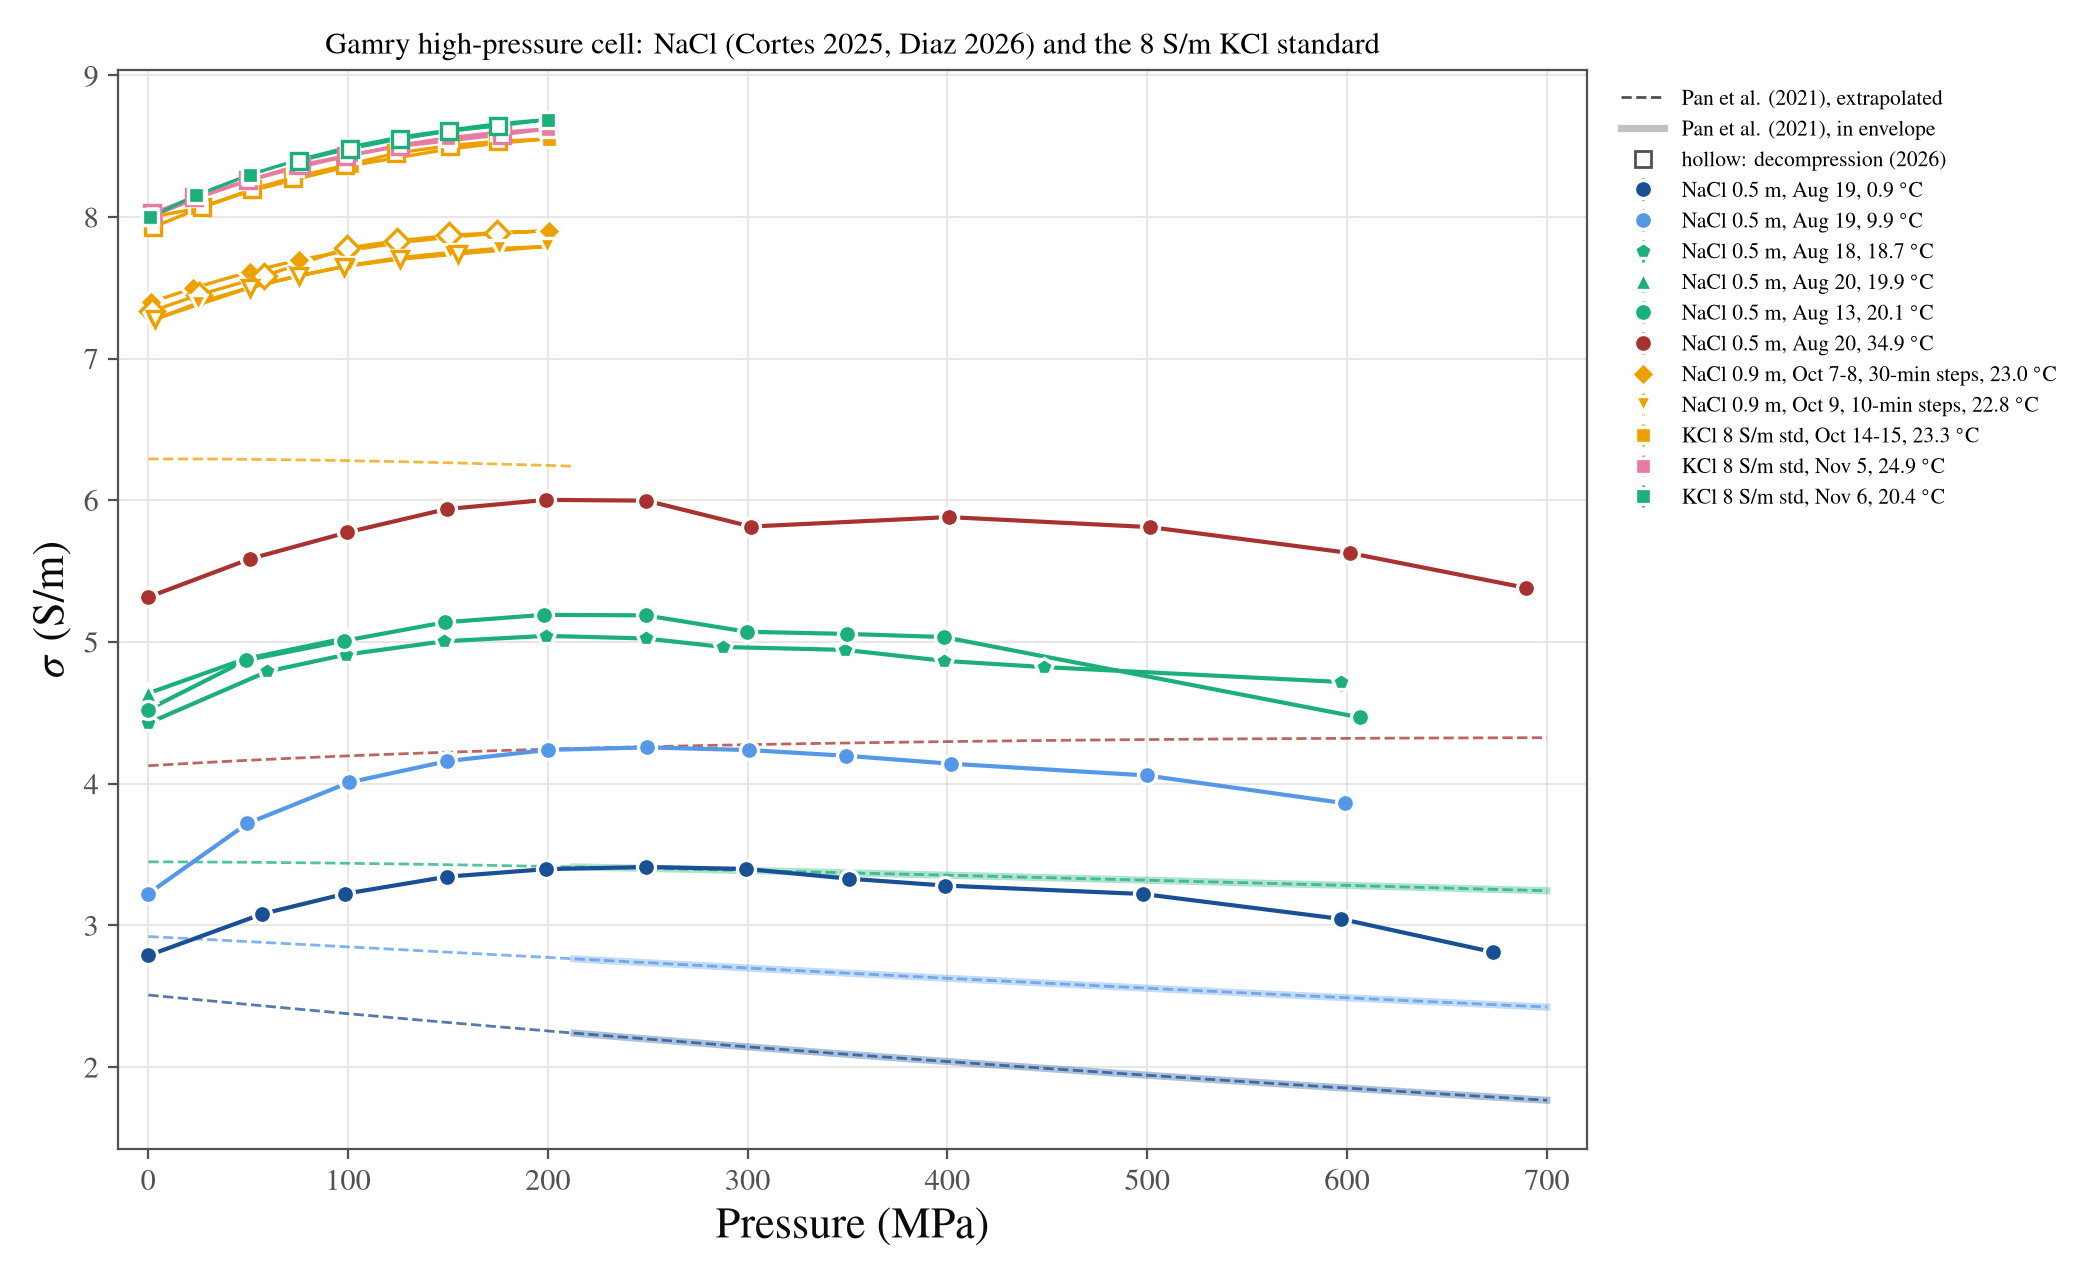
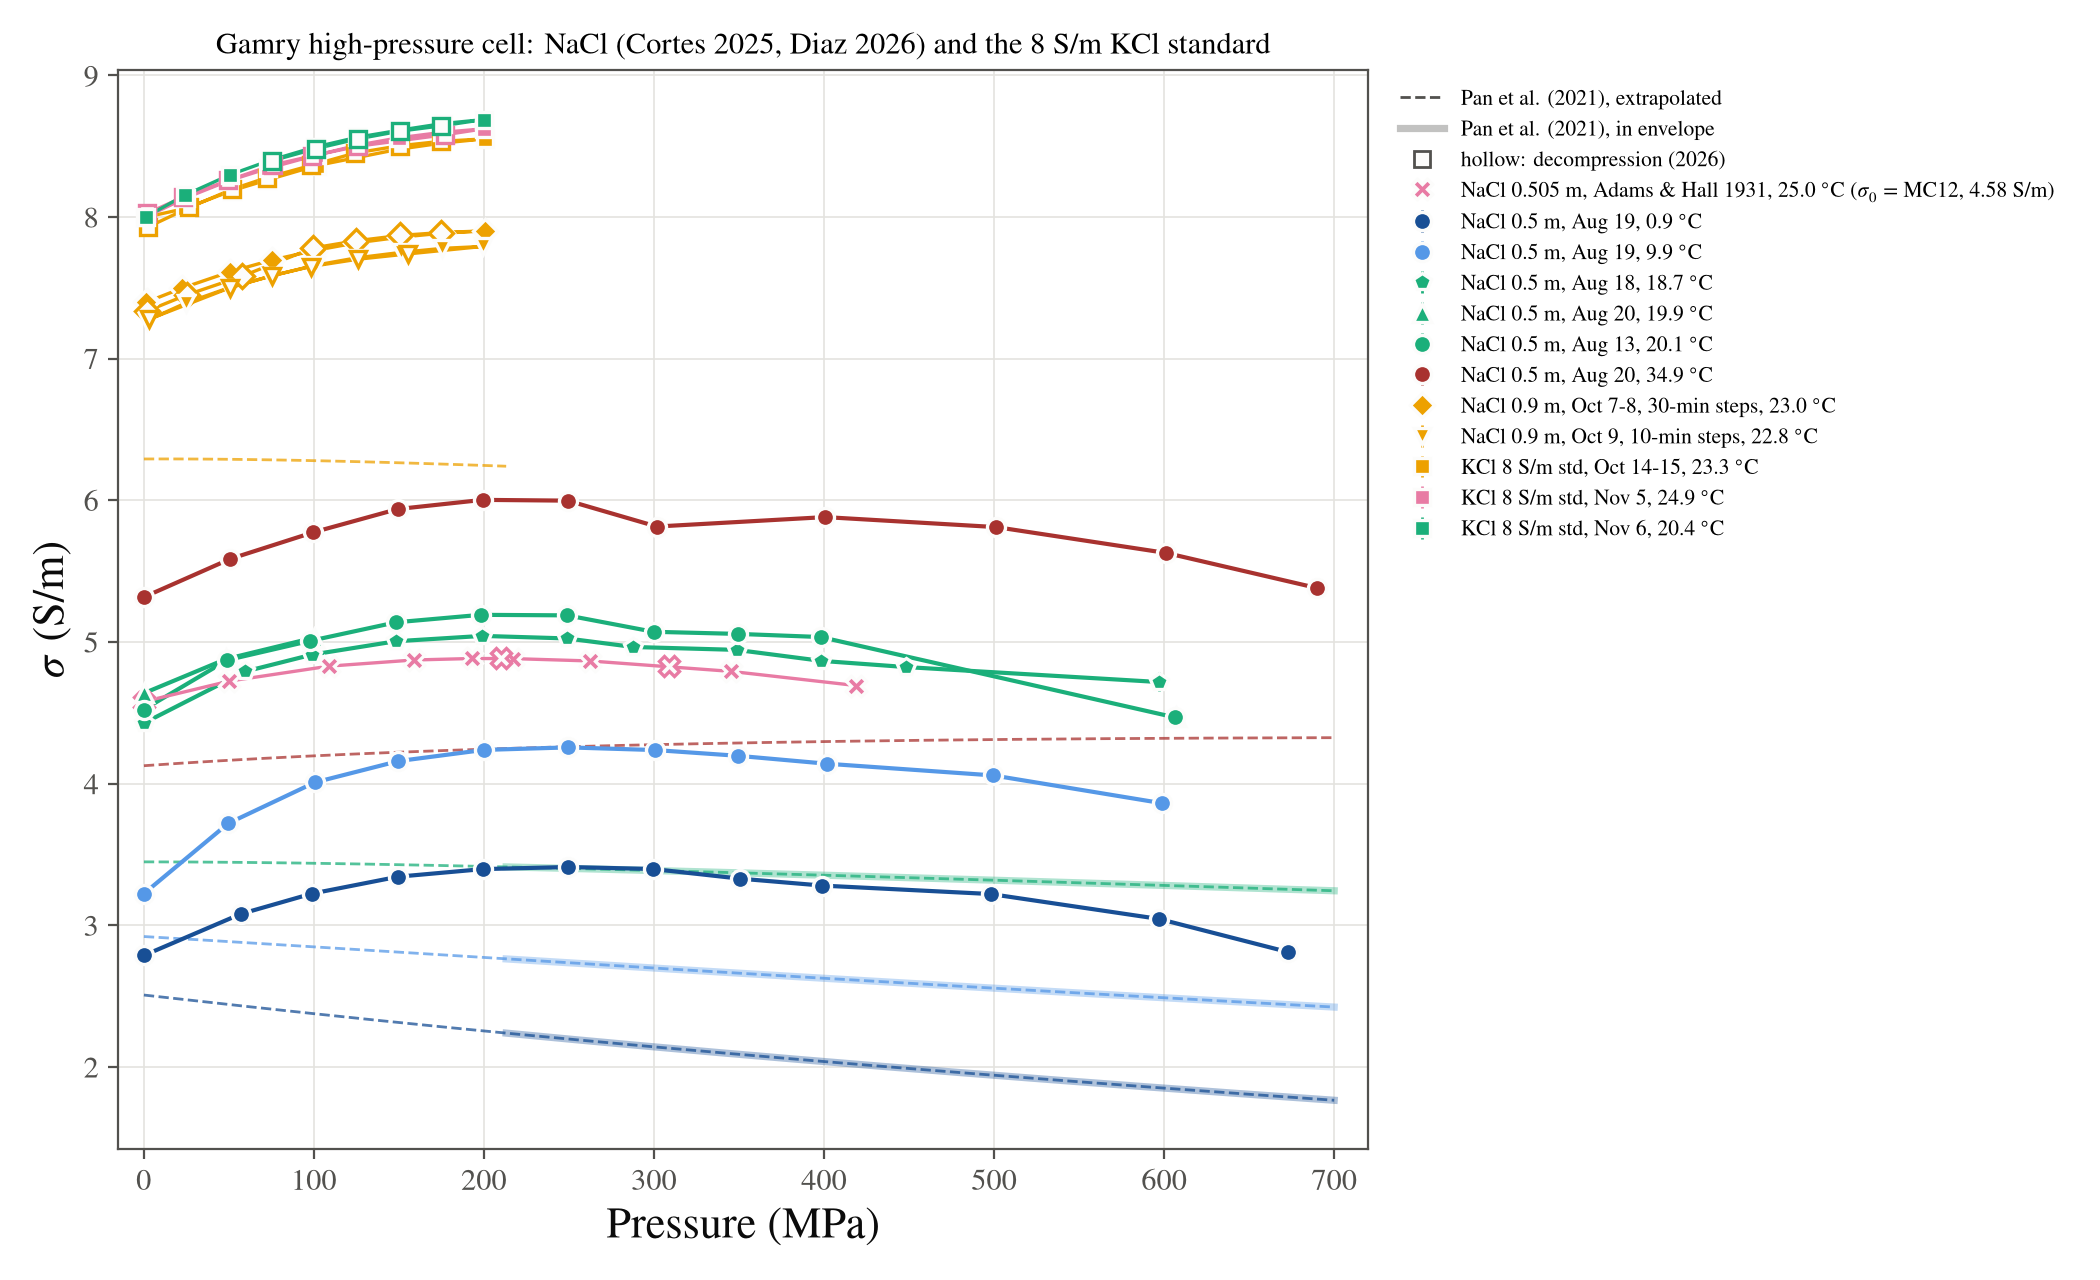
Add Adams & Hall (1931) 2.865 wt% NaCl sigma(P) at 25 C to the figure
Table I series read off the page image. The paper gives R/R0 only, so the
plotted sigma is anchored to McCleskey (2012) at 1 bar, as the legend says.

diff --git a/cortes2026/plot_nacl_sigma_P.py b/cortes2026/plot_nacl_sigma_P.py
@@ -14,6 +14,10 @@ Clean sigma(P) for the Gamry high-pressure cell, all on one axis.
 - Pan et al. (2021) NaCl model (pan2021_nacl.py) at 0.5 and 0.9 mol/kg on
   the measured isotherms: solid inside the experimental envelope
   (212-1713 MPa, 233-295 K), dashed where extrapolated.
+- Adams & Hall (1931) 2.8650 wt% (0.5047 mol/kg) NaCl at 25.00 C, Table I
+  (cortes2026/literature/adams_hall_1931_nacl_2p865.csv). They report only
+  R/R0, so sigma = sigma0 R0/R with sigma0 from McCleskey et al. (2012) at
+  25 C and that molality (the anchor is a model value, said in the legend).
 Left out: the Aug 18 - Sep 10 2026 KCl runs, stepped too fast for the trend
 with pressure (Steve, 2026-11-08); Oct 6 NaCl (5-10 min steps, up/down
 mismatch in Diaz's notebook).
@@ -58,6 +62,9 @@ MAX_GAP_MPA = 150
 # step is Aug 13's, so the segment is Aug 13's.
 ALWAYS_CONNECT = {('20250813', 20)}
 SIGMA_STD = 8.0
+ADAMS_CSV = os.path.join(HERE, 'literature', 'adams_hall_1931_nacl_2p865.csv')
+ADAMS_MOLAL = 0.02865 / (1 - 0.02865) / 0.05844
+ADAMS_T_C = 25.0
 DIRS = {'20250813Cortes': '20250813', '20250814Cortes': '20250814',
         '20250818Cortes': '20250818', '20250819Cortes': '20250819',
         '20250820Cortes': '20250820'}
@@ -240,6 +247,7 @@ def plot(st, path, show_excluded=False, recent=None):
     ax.set_axisbelow(True)
     if recent is not None:
         _plot_recent(ax, recent)
+        _plot_adams(ax)
     ax.set_title(r'Gamry high-pressure cell: NaCl (Cortes 2025, Diaz 2026) and the 8 S/m KCl standard',
                  fontsize=11)
     ax.legend(fontsize=7.8, frameon=False, loc='upper left', bbox_to_anchor=(1.01, 1.0))
@@ -264,6 +272,30 @@ def _plot_recent(ax, rec):
                         label=None if desc else f'{label}, {r.T_C.mean():.1f} $^\\circ$C')
     ax.plot([], [], 's', color='#52514e', mfc='#fcfcfb', ms=6,
             label='hollow: decompression (2026)')
+
+
+def load_adams_hall():
+    """Adams & Hall (1931) 2.865 wt% NaCl, sigma anchored to MC12 at 1 bar."""
+    from study_plots import compute_mccleskey_model
+    a = pd.read_csv(ADAMS_CSV, comment='#')
+    sigma0 = compute_mccleskey_model([ADAMS_MOLAL], [ADAMS_T_C + 273.15], compound='NaCl')[0][0]
+    a['P_MPa'] = a.P_bar / 10
+    a['sigma_Sm'] = sigma0 / a.R_over_R0
+    a['descent'] = a.P_bar.cummax() > a.P_bar
+    return a, sigma0
+
+
+def _plot_adams(ax):
+    a, sigma0 = load_adams_hall()
+    col = temp_color(ADAMS_T_C)
+    up = a[~a.descent].sort_values('P_MPa')
+    ax.plot(up.P_MPa, up.sigma_Sm, '-', color=col, lw=1.2, zorder=2)
+    for desc in (False, True):
+        q = a[a.descent == desc]
+        ax.plot(q.P_MPa, q.sigma_Sm, 'X', color=col, ms=7.5,
+                mfc='#fcfcfb' if desc else col, mec=col if desc else '#fcfcfb', mew=1.2,
+                zorder=3, label=None if desc else
+                fr'NaCl 0.505 m, Adams \& Hall 1931, 25.0 $^\circ$C ($\sigma_0$ = MC12, {sigma0:.2f} S/m)')
 
 
 def _plot_pan(ax, st, rec):

diff --git a/plans/STATUS.md b/plans/STATUS.md
@@ -32,7 +32,7 @@ lab data merged in from origin/main. PR #3 (still open) now carries all of it.
 | Cortes paper figures regenerated with corrected model | claude-code | verified | Steve ran regenerate_cortes_figures.sh 2026-10-08; committed; old figures in cortes2026/figures_archive_20261005_pre_mccleskey_fix/ |
 | Speciation for mixtures (NaCl:MgSO4, Na2SO4:KCl) — speciation module | claude-code | verified | Steve's macOS run 2026-10-17: test_mixture_nacl_mgso4_matches_phreeqc, test_mixture_na2so4_kcl_matches_phreeqc, test_mixture_speciation_lowers_model pass (Reaktoro vs PHREEQC references) |
 | Benchtop concentrations are molal as prepared (Steve 2026-11-07); 10-17 molarity conversion withdrawn | claude-code | verified | tests/test_cortes_concentrations.py, tests/test_mccleskey_validity.py; figures regenerated with Reaktoro (cortes2026/prepost_comparison/prepost_summary.txt; nacl_vs_concentration.pdf inspected) |
-| Clean 0.5 m NaCl sigma(P) plot, unequilibrated near-room-T steps left out | claude-code | verified | cortes2026/nacl_sigma_P/nacl_0p5m_sigma_P.png inspected; exclusions in plot_nacl_sigma_P.py EXCLUDED; ~600 MPa 20 C points kept, boxed axes, 606 MPa 20 C point joined to 400 MPa; one panel with absolute sigma for 2026 NaCl (Oct 7-9, K from Oct 14 std) and KCl std (squares) and Pan et al. 2021 NaCl curves; Aug 18-Sep 10 KCl left out (Steve 2026-11-08) |
+| Clean 0.5 m NaCl sigma(P) plot, unequilibrated near-room-T steps left out | claude-code | verified | cortes2026/nacl_sigma_P/nacl_0p5m_sigma_P.png inspected; exclusions in plot_nacl_sigma_P.py EXCLUDED; ~600 MPa 20 C points kept, boxed axes, 606 MPa 20 C point joined to 400 MPa; one panel with absolute sigma for 2026 NaCl (Oct 7-9, K from Oct 14 std) and KCl std (squares) and Pan et al. 2021 NaCl curves; Adams & Hall 1931 2.865 wt% NaCl at 25 C (R/R0 anchored to MC12 at 1 bar); Aug 18-Sep 10 KCl left out (Steve 2026-11-08) |
 | Pan et al. (2021) NaCl conductivity (pan2021_nacl.py, ported from planetprofile-genai bf545b5e) | claude-code | verified | tests/test_pan2021_nacl.py (3 pass; reproduces the authors' 69 regression rows) |
 | Mixture ion_spec per first component (1.5-3x concentration error) | claude-code | verified | tests/test_cortes_concentrations.py; Na2SO4:KCl 1:1 RMS 34.2% -> 2.3% (prepost_summary.txt) |
 | Pre/post-fix McCleskey comparison | claude-code | verified | cortes2026/prepost_comparison/ (PHREEQC backend; rerun with Reaktoro via regenerate_cortes_figures.sh) |

diff --git a/coordination/audit.md b/coordination/audit.md
@@ -520,3 +520,4 @@ or delete existing entries. Format is defined in `AGENTS.md`.
 - 2026-11-07: NaCl sigma(P) plot: removed the remaining dotted gap connector (Aug 20 isotherm, 100 -> 607 MPa); figure inspected.
 - 2026-11-08: NaCl sigma(P) figure: Aug 20 20 C isotherm joined 100 -> 607 MPa; added right panel of 2026 runs with the correct trend (0.9 m NaCl Oct 7-8 and Oct 9; KCl 8 S/m std Oct 14-15, Nov 5, Nov 6), each as sigma/sigma_ambient of the same run (cancels the unresolved Oct 7-9 cell constant). Left out per Steve: Aug 18-Sep 10 2026 KCl (stepped too fast); also Oct 6 (5-10 min steps). Figure inspected; step table cortes2026/nacl_sigma_P/sigma_P_2026_steps.csv.
 - 2026-11-08: sigma(P) figure now one panel: Aug 2025 0.5 m NaCl, 2026 Diaz 0.9 m NaCl (Oct 7-9; K = 8 S/m x R of the Oct 14 ambient standard, an estimate) and the 8 S/m KCl standard (squares; Oct 14-15, Nov 5, Nov 6; K from each run's first triplet), colour by temperature (palette validated --pairs all). The ~606 MPa 20 C point joins the ~400 MPa step. Added pan2021_nacl.py (Pan et al. 2021 NaCl model, ported from planetprofile-genai bf545b5e with its validation rows) and curves at 0.5 and 0.9 m on the measured isotherms. Pan predicts sigma falling monotonically with P and sits ~35% below the 20 C 0.5 m data at 200-400 MPa; in its own dataset it is ~26% low at 0.17 m, 293 K, 212 MPa.
+- 2026-11-08: Added Adams & Hall (1931) Table I NaCl 2.8650 wt% (0.5047 mol/kg), 25.00 C, 1-4189 bar to the sigma(P) figure (cortes2026/literature/adams_hall_1931_nacl_2p865.csv, read off the page image of PDF p. 8; R/R0 matches R/122.103 within 5e-5). They give relative resistance only, so sigma = sigma0 R0/R with sigma0 = 4.58 S/m from McCleskey 2012 (stated in the legend). Shape matches the Cortes 20 C 0.5 m data: peak +7% near 200 MPa. Opus agent started in ~/src/ThermoLit to build .mat/.h5 literature datasets (Adams & Hall 1931, Pan 2021 first); it commits on a branch and does not push.
